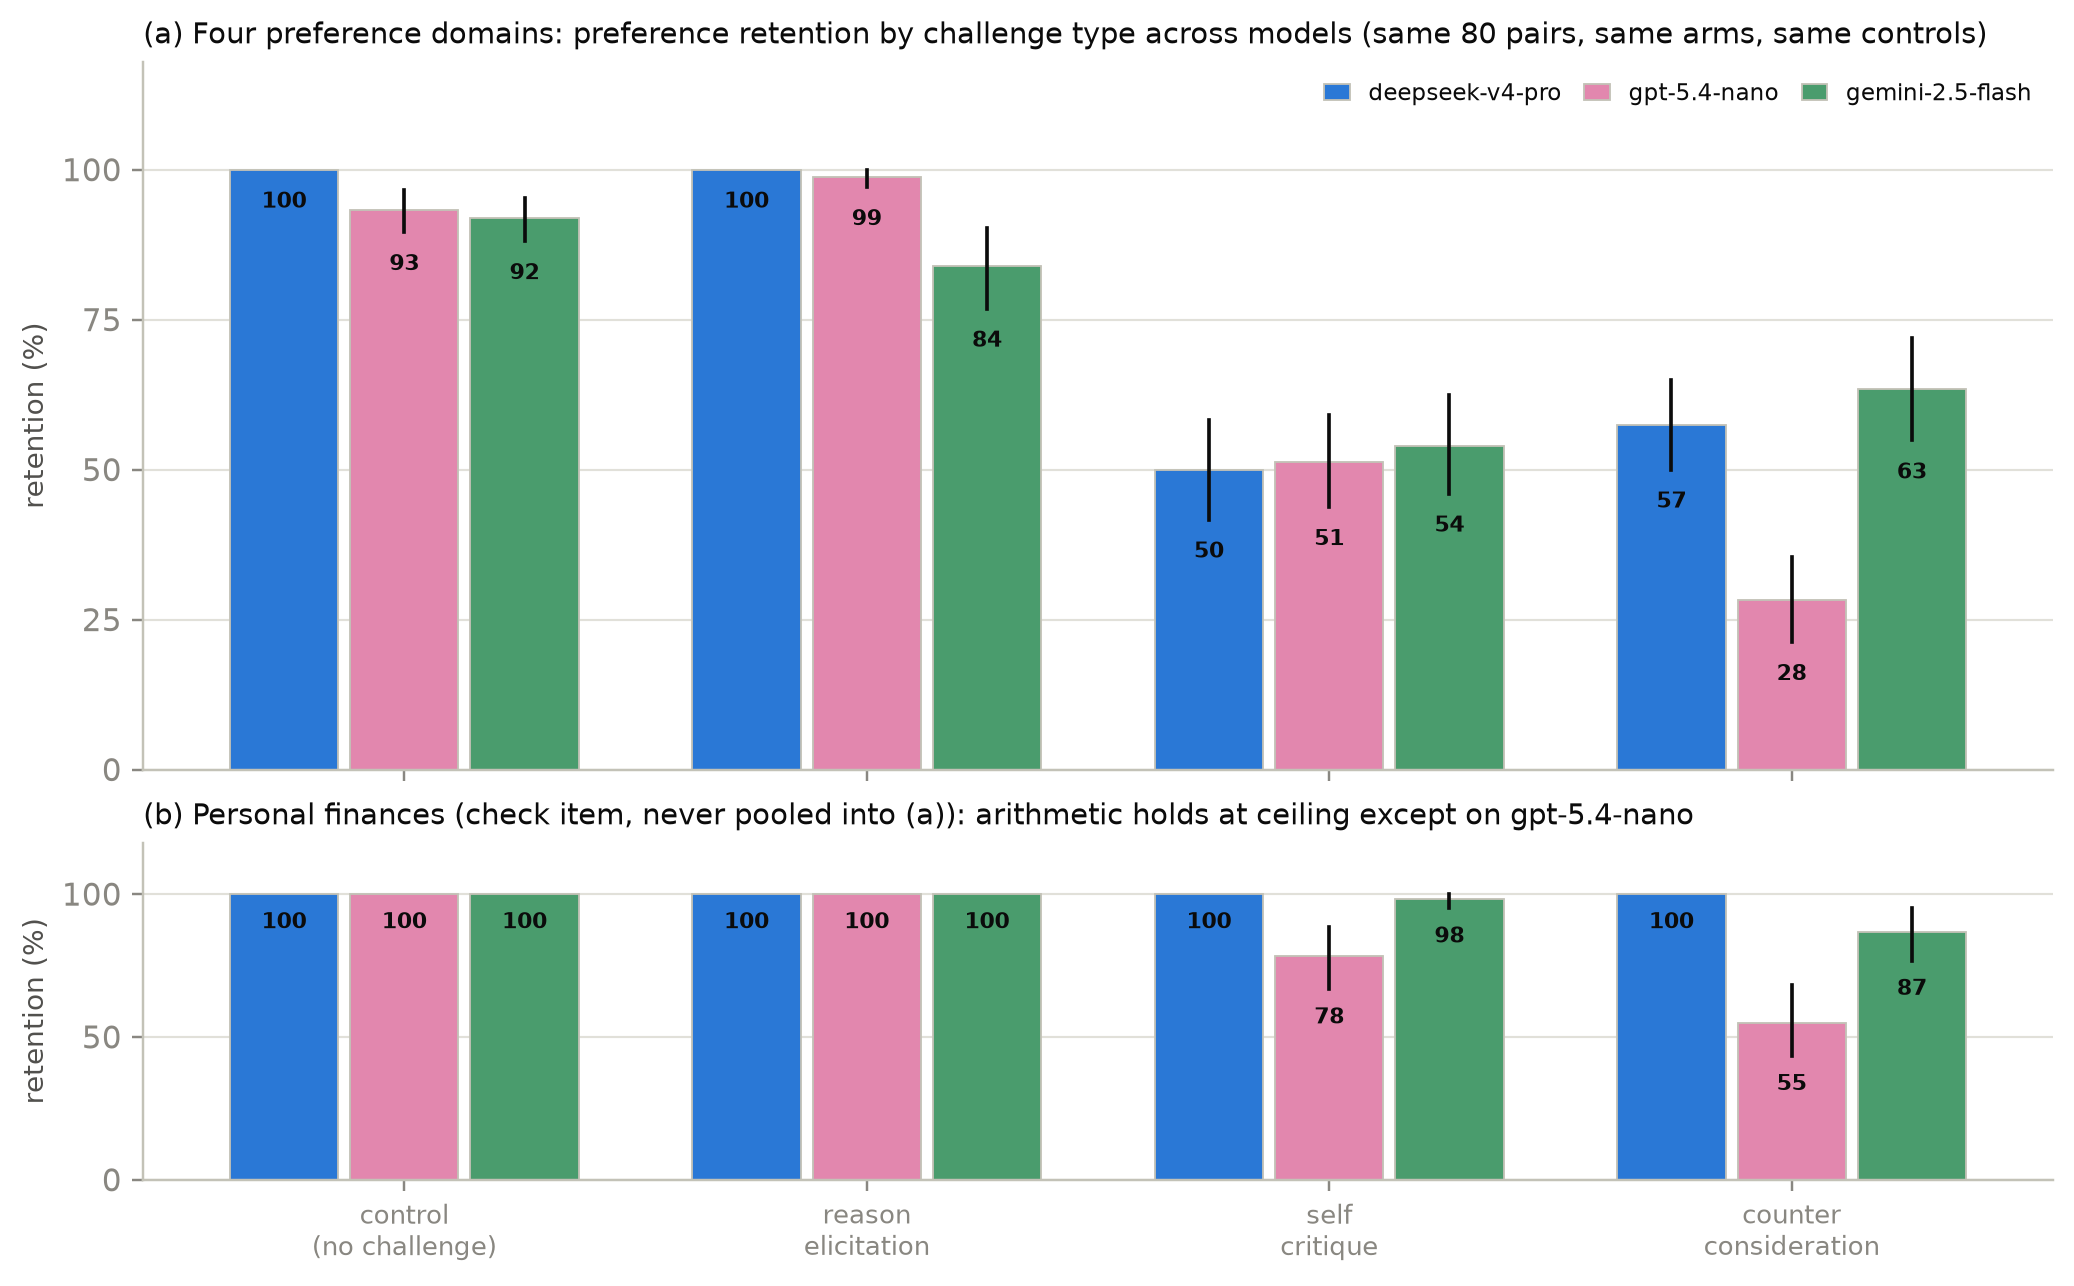
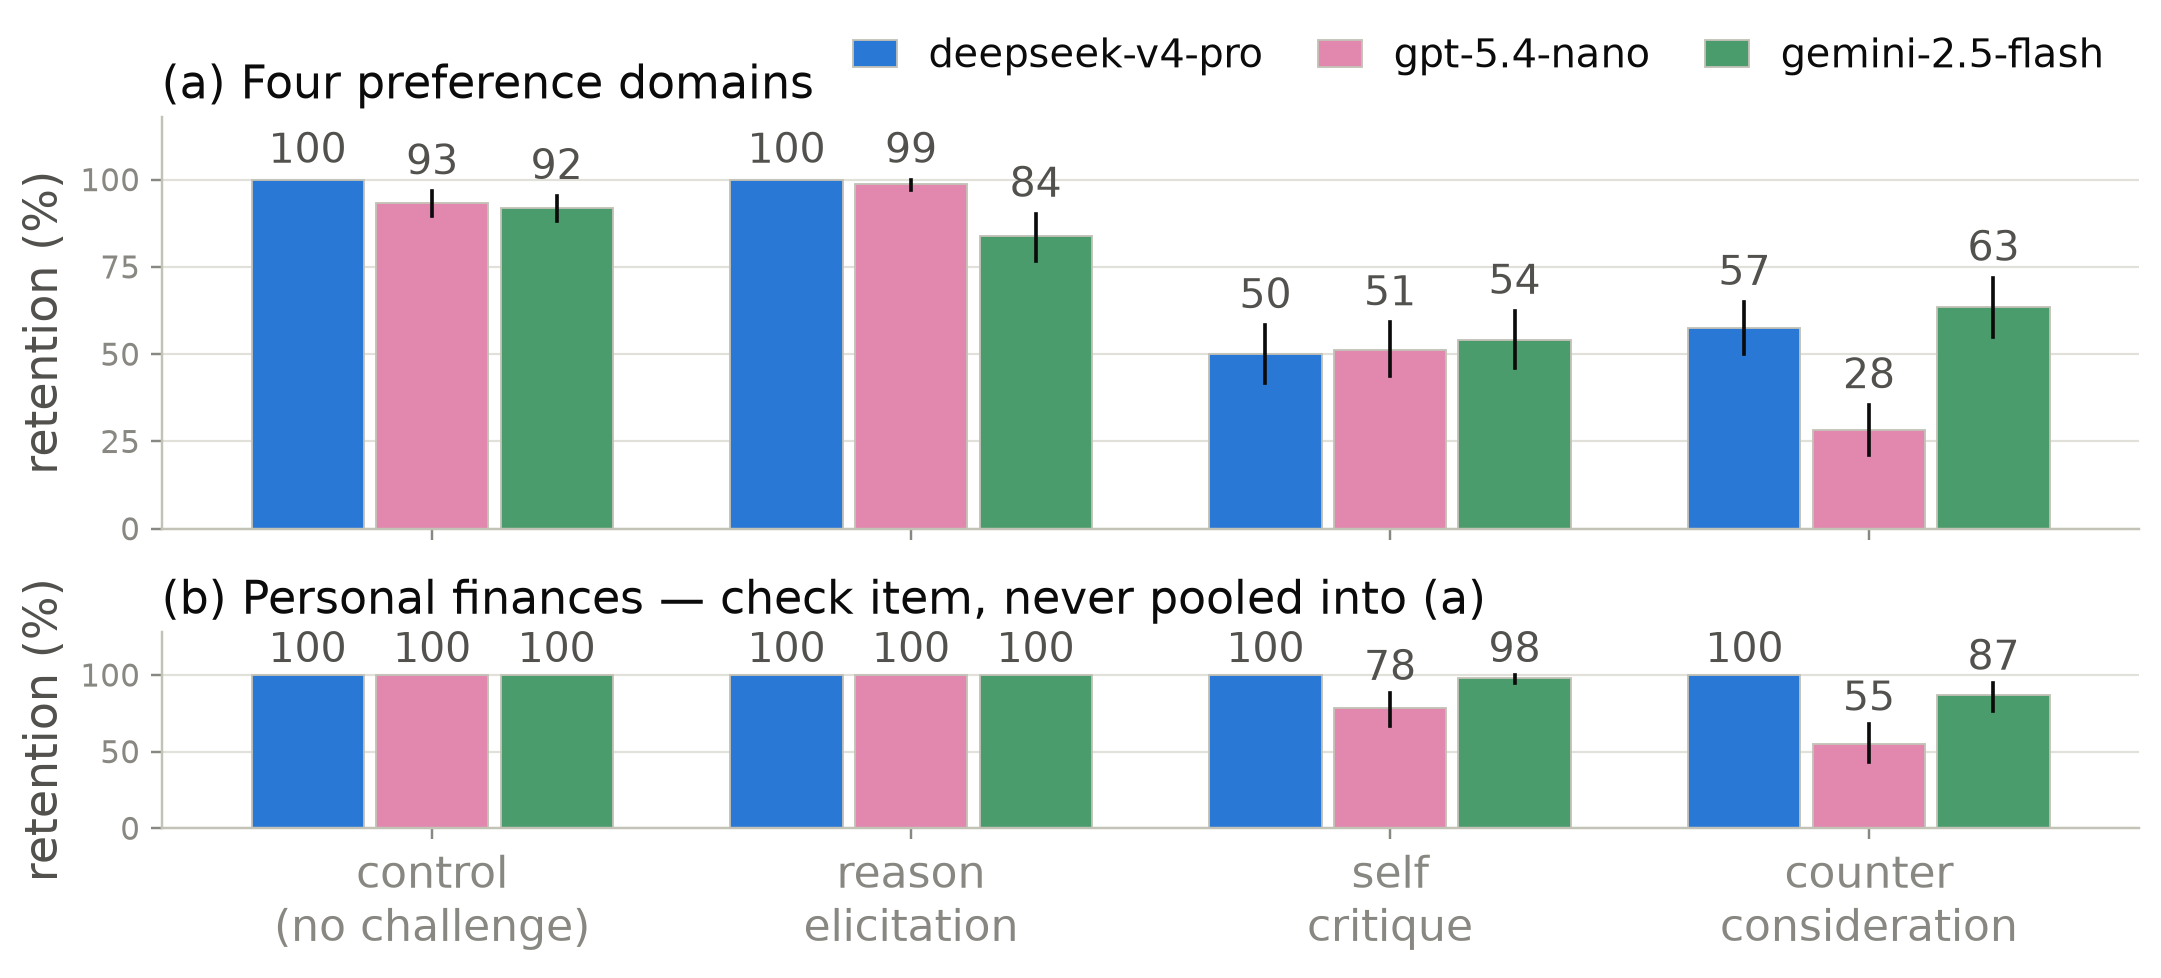
Figures: label every bar, and one font scale sized for the printed page
build_domains was the only figure in the paper that did not print its point
estimates; every other one already did. It does now, so the convention is
uniform.

Placement and face are chosen once, in a shared _value_label() helper, so the
labels cannot drift apart between panels: horizontal (never rotated — upright
digits are legible but read as clutter), regular weight in secondary ink
(twenty bold black numbers on the domain panel are louder than the bars they
annotate), and at the outer end of the bar, above a positive bar and below a
negative one. Inside-the-bar placement has to survive both a saturated fill
and a 10%-tall bar and cannot do both. Where labels would collide, the fix is
FS_VALUE_DENSE, not a rotation.

The 34 hardcoded font sizes are replaced by one named scale (FS_TITLE, FS_AXIS,
FS_TICK, FS_VALUE, FS_LEGEND, FS_NOTE). They are sized so text survives LaTeX
downscaling an ~11in canvas into the text column: undersized figure text is
the one defect the submission template names.

Knock-on fixes this exposed: the cross-model legends were sitting on top of the
new value labels, so panel titles are shortened (the captions already carry the
detail) and the legends moved above the axes; the two stacked confidence panels
were printing overlapping y labels, now one shared supylabel.

No estimate moved. persist_ext_stats.tex and persist_models_ext_stats.tex
regenerate byte-identically.

diff --git a/analysis/persistence_figures.py b/analysis/persistence_figures.py
@@ -97,6 +97,43 @@ FINANCE_COLOR = "#e9a8c4"    # soft pink: the positive control, distinct from ev
 MODEL_COLOUR = {"deepseek-v4-pro": "#2a78d6", "gpt-5.4-nano": "#e287ae",
                 "gemini-2.5-flash": "#4a9c6d"}
 
+# One font scale for every figure in the paper, so no two panels disagree about how
+# big a tick label is. Sizes are in canvas points and the canvases here are ~11-12in
+# wide, which LaTeX renders into a ~6.3in text column: an on-canvas point lands at
+# roughly 0.55pt on the page, so these are ~1.9x the on-page sizes we want. Keep them
+# in that ratio -- undersized figure text is the one defect the submission template
+# calls out by name.
+FS_TITLE = 15.0     # panel title
+FS_AXIS = 15.0      # axis label
+FS_TICK = 14.5      # tick labels
+FS_VALUE = 13.5     # per-bar point estimate (every bar in every figure carries one)
+FS_VALUE_DENSE = 11.5   # same, in the 20-bar domain panel where they sit closer
+FS_LEGEND = 13.0
+FS_NOTE = 12.0      # secondary annotation (CI text, n, callouts)
+
+
+def _value_label(ax, x, point, lo, hi, fmt, *, size=FS_VALUE, pad=2.0):
+    """Write one bar's point estimate at the OUTER end of the bar.
+
+    One helper for every panel, so the labels cannot drift apart in weight or
+    colour between figures. Three choices worth stating, because the obvious
+    alternatives all read worse at print size:
+
+    outer end, never inside the bar -- above a positive bar, below a negative one.
+      Inside-the-bar placement has to survive both a saturated fill and a 10%-tall
+      bar, and cannot do both.
+    regular weight in secondary ink, not bold black. A domain panel carries twenty
+      of these; bold turns them into the loudest thing on the plate, louder than
+      the bars they annotate.
+    horizontal, never rotated. Upright digits are legible but read as clutter.
+      Where they would collide, the fix is a smaller size (FS_VALUE_DENSE), not a
+      rotation.
+    """
+    up = point >= 0
+    y = (max(hi, point) + pad) if up else (min(lo, point) - pad)
+    ax.text(x, y, fmt.format(point), ha="center", va="bottom" if up else "top",
+            fontsize=size, color=INK_2, zorder=4)
+
 
 def _targets():
     from analysis.persistence_models_ext_stats import TARGETS, load_merged
@@ -122,8 +159,7 @@ def _model_arm_panel(ax, targets, domains, value, *, pct, label_fmt, label_gap,
                linewidth=0.6, zorder=2, label=name if legend else None)
         for x, p_, lo, hi in zip(xs, pts, los, his):
             ax.plot([x, x], [lo, hi], color=INK, lw=1.2, zorder=3)
-            ax.text(x, min(lo, p_) - label_gap, label_fmt.format(p_), ha="center",
-                    va="top", fontsize=7.3, color=INK, fontweight="bold", zorder=4)
+            _value_label(ax, x, p_, lo, hi, label_fmt, pad=label_gap)
     ax.set_xticks(range(len(ARMS)))
     ax.set_axisbelow(True)
     ax.yaxis.grid(True, color=GRID, linewidth=0.7)
@@ -140,28 +176,30 @@ def build_models_ext() -> None:
     targets = [(n, [r for r in rows if r.get("retained") is not None])
                for n, rows in _targets()]
     fig, (ax, axf) = plt.subplots(
-        2, 1, figsize=(11.2, 6.6), sharex=True,
-        gridspec_kw={"height_ratios": [2.1, 1.0], "hspace": 0.14})
+        2, 1, figsize=(11.6, 4.2), sharex=True,
+        gridspec_kw={"height_ratios": [2.1, 1.0], "hspace": 0.34})
     ret = lambda r: r["retained"]
     _model_arm_panel(ax, targets, EXTENSION_DOMAINS, ret, pct=True,
-                     label_fmt="{:.0f}", label_gap=3.5, legend=True)
+                     label_fmt="{:.0f}", label_gap=2.0, legend=True)
     ax.set_ylim(0, 118)
     ax.set_yticks([0, 25, 50, 75, 100])
-    ax.set_ylabel("retention (%)", fontsize=9)
-    ax.set_title("(a) Four preference domains: preference retention by challenge "
-                 "type across models (same 80 pairs, same arms, same controls)",
-                 fontsize=9.5, loc="left", color=INK)
-    ax.legend(fontsize=7.6, frameon=False, loc="upper right", ncol=3,
-              handlelength=1.1, columnspacing=1.0)
+    ax.set_ylabel("retention (%)", fontsize=FS_AXIS)
+    # Panel titles name the panel and nothing more: the caption in the paper carries
+    # the pairs, arms and controls, and a title long enough to repeat them leaves the
+    # legend nowhere to sit but on top of the value labels.
+    ax.set_title("(a) Four preference domains", fontsize=FS_TITLE, loc="left",
+                 color=INK)
+    ax.legend(fontsize=FS_LEGEND, frameon=False, loc="lower right",
+              bbox_to_anchor=(1.0, 1.01), ncol=3, handlelength=1.1,
+              columnspacing=1.4)
     _model_arm_panel(axf, targets, (POSITIVE_CONTROL,), ret, pct=True,
-                     label_fmt="{:.0f}", label_gap=6.0)
-    axf.set_ylim(0, 118)
+                     label_fmt="{:.0f}", label_gap=2.0)
+    axf.set_ylim(0, 128)     # shorter panel, so the label needs more of the range
     axf.set_yticks([0, 50, 100])
-    axf.set_ylabel("retention (%)", fontsize=9)
-    axf.set_title("(b) Personal finances (check item, never pooled into (a)): "
-                  "arithmetic holds at ceiling except on gpt-5.4-nano",
-                  fontsize=9.5, loc="left", color=INK)
-    axf.set_xticklabels([LABEL[a] for a in ARMS], fontsize=8.5)
+    axf.set_ylabel("retention (%)", fontsize=FS_AXIS)
+    axf.set_title("(b) Personal finances — check item, never pooled into (a)",
+                  fontsize=FS_TITLE, loc="left", color=INK)
+    axf.set_xticklabels([LABEL[a] for a in ARMS], fontsize=FS_TICK)
     fig.tight_layout()
     out = FIGS / "persistence_models_ext.png"
     fig.savefig(out, bbox_inches="tight")
@@ -179,24 +217,28 @@ def build_confidence_models() -> None:
     targets = [(n, [r for r in rows if r.get("retained") is True])
                for n, rows in _targets()]
     fig, (ax, axf) = plt.subplots(
-        2, 1, figsize=(11.2, 6.4), sharex=True,
-        gridspec_kw={"height_ratios": [1.9, 1.0], "hspace": 0.16})
+        2, 1, figsize=(11.2, 5.0), sharex=True,
+        gridspec_kw={"height_ratios": [1.9, 1.0], "hspace": 0.42})
     _model_arm_panel(ax, targets, EXTENSION_DOMAINS, dconf, pct=False,
-                     label_fmt="{:+.1f}", label_gap=0.55, legend=True)
+                     label_fmt="{:+.1f}", label_gap=0.4, legend=True)
     ax.axhline(0, color=AXIS, linewidth=0.9, zorder=1)
-    ax.set_ylabel(r"$\Delta$confidence, held episodes", fontsize=9)
-    ax.set_title("(a) Four preference domains: confidence change among retained "
-                 "preferences, by model (per-arm means)",
-                 fontsize=9.5, loc="left", color=INK)
-    ax.legend(fontsize=7.6, frameon=False, loc="lower left", ncol=1,
-              handlelength=1.1)
+    ax.margins(y=0.18)       # room for labels at both ends; bars run both signs
+    ax.set_title("(a) Four preference domains", fontsize=FS_TITLE, loc="left",
+                 color=INK)
+    ax.legend(fontsize=FS_LEGEND, frameon=False, loc="lower right",
+              bbox_to_anchor=(1.0, 1.01), ncol=3, handlelength=1.1,
+              columnspacing=1.4)
     _model_arm_panel(axf, targets, (POSITIVE_CONTROL,), dconf, pct=False,
-                     label_fmt="{:+.1f}", label_gap=0.55)
+                     label_fmt="{:+.1f}", label_gap=0.4)
     axf.axhline(0, color=AXIS, linewidth=0.9, zorder=1)
-    axf.set_ylabel(r"$\Delta$confidence, held", fontsize=9)
-    axf.set_title("(b) Personal finances (check item, never pooled into (a))",
-                  fontsize=9.5, loc="left", color=INK)
-    axf.set_xticklabels([LABEL[a] for a in ARMS], fontsize=8.5)
+    axf.margins(y=0.24)
+    axf.set_title("(b) Personal finances — check item, never pooled into (a)",
+                  fontsize=FS_TITLE, loc="left", color=INK)
+    # One shared y label: two stacked panels this short cannot each carry the full
+    # phrase without the two labels colliding in the middle of the plate.
+    fig.supylabel(r"$\Delta$confidence among held episodes", fontsize=FS_AXIS,
+                  color=INK_2)
+    axf.set_xticklabels([LABEL[a] for a in ARMS], fontsize=FS_TICK)
     fig.tight_layout()
     out = FIGS / "persistence_confidence_models.png"
     fig.savefig(out, bbox_inches="tight")
@@ -228,30 +270,33 @@ def build_domains(rows=None,
         xs = x_base + arm_to_offset[arm]
         ax.bar(xs, ys, width=width * 0.9, color=COLOR[arm], edgecolor=AXIS,
                linewidth=0.6, zorder=2, label=LABEL[arm])
-        for x, lo, hi in zip(xs, los, his):
+        for x, p_, lo, hi in zip(xs, ys, los, his):
             if np.isnan(lo) or np.isnan(hi):
                 continue
             ax.plot([x, x], [lo, hi], color=INK, linewidth=1.2, zorder=3)
             ax.plot([x - 0.05, x + 0.05], [lo, lo], color=INK, linewidth=1.0, zorder=3)
             ax.plot([x - 0.05, x + 0.05], [hi, hi], color=INK, linewidth=1.0, zorder=3)
+            # Twenty bars share this axis, so the labels take the smaller size;
+            # everything else about them matches every other panel.
+            _value_label(ax, x, p_, lo, hi, "{:.0f}", size=FS_VALUE_DENSE, pad=2.5)
 
     ax.set_xticks(x_base)
     DOMAIN_LABEL = {"video_games": "video games", "sports": "sports",
                     "pop_culture": "pop culture", "sci_tech": "science & tech",
                     "finances_control": "personal finances"}
     ax.set_xticklabels([DOMAIN_LABEL[d] for d in REPORTED_DOMAINS], rotation=20,
-                       ha="right", fontsize=8)
-    ax.set_ylim(0, 110)
-    ax.set_ylabel("retention (%)", fontsize=9)
+                       ha="right", fontsize=FS_TICK)
+    ax.set_ylim(0, 118)          # headroom for the per-bar value labels
+    ax.set_ylabel("retention (%)", fontsize=FS_AXIS)
     ax.set_title("Retention by domain and arm"
                  + (f" — {model_label}" if model_label else " — deepseek-v4-pro"),
-                 fontsize=9.5, loc="left", color=INK)
+                 fontsize=FS_TITLE, loc="left", color=INK)
     ax.axhline(0, color=AXIS, linewidth=0.9, zorder=1)
     ax.set_axisbelow(True)
     ax.yaxis.grid(True, color=GRID, linewidth=0.7)
     for s in ("top", "right"):
         ax.spines[s].set_visible(False)
-    ax.legend(frameon=False, fontsize=7.5, ncol=4, columnspacing=1.0,
+    ax.legend(frameon=False, fontsize=FS_LEGEND, ncol=4, columnspacing=1.0,
               handlelength=1.1, loc="lower right", bbox_to_anchor=(1.0, 1.02))
     fig.tight_layout()
     out = FIGS / out_name
@@ -301,12 +346,12 @@ def build_confidence() -> None:
         if big_labels:
             # labels on the LEFT of the cluster; the right side belongs to the
             # money-ladder cluster drawn beside it
-            ax.text(x - w - 0.08, p, f"{p:+.1f}", fontsize=9, color=INK,
+            ax.text(x - w - 0.08, p, f"{p:+.1f}", fontsize=FS_VALUE, color=INK,
                     fontweight="bold", ha="right", va="center")
             ax.text(x - w - 0.08, p, f"\n[{lo:+.1f}, {hi:+.1f}]\nn={nobs}",
-                    fontsize=6.8, color=INK_2, ha="right", va="top", linespacing=1.25)
+                    fontsize=FS_NOTE, color=INK_2, ha="right", va="top", linespacing=1.25)
         else:
-            ax.text(x, min(0, lo) - 2.0, f"{p:+.1f}", fontsize=7.2, color=INK_2,
+            ax.text(x, min(0, lo) - 2.0, f"{p:+.1f}", fontsize=FS_VALUE, color=INK_2,
                     ha="center", va="top")
 
     # All five domains in one panel, per arm: the four preference domains as the
@@ -328,15 +373,15 @@ def build_confidence() -> None:
         f"{ex['choice_post'].upper()}), confidence "
         f"{ex['conf_pre']} → {ex['conf_post']}",
         xy=(ex_x, dconf(ex)), xytext=((len(ARMS) - 1) * STEP + 0.6, dconf(ex) - 14),
-        fontsize=8, color=INK, ha="right",
+        fontsize=FS_NOTE, color=INK, ha="right",
         arrowprops=dict(arrowstyle="->", color=INK_2, linewidth=0.9))
 
     ax.set_xticks([i * STEP for i in range(len(ARMS))])
-    ax.set_xticklabels([LABEL[a] for a in ARMS], fontsize=8.5)
-    ax.set_ylabel(r"$\Delta$confidence among HELD episodes (0--100 scale)", fontsize=9)
+    ax.set_xticklabels([LABEL[a] for a in ARMS], fontsize=FS_TICK)
+    ax.set_ylabel(r"$\Delta$confidence among HELD episodes (0--100 scale)", fontsize=FS_AXIS)
     ax.set_title("All five approved domains: the choice survives; the stated confidence "
                  "does not always survive with it — except on personal finances",
-                 fontsize=9.5, loc="left", color=INK)
+                 fontsize=FS_TITLE, loc="left", color=INK)
     from matplotlib.lines import Line2D
     ax.legend(handles=[
         Line2D([], [], marker="o", ls="none", color=COLOR["control"], alpha=0.7,
@@ -347,7 +392,7 @@ def build_confidence() -> None:
                label="personal-finances episodes (control item, never pooled)"),
         Line2D([], [], color=INK, lw=1.8,
                label="per-cluster mean, with bootstrap 95% CI over pairs"),
-    ], fontsize=6.8, frameon=False, loc="lower left", handlelength=1.2,
+    ], fontsize=FS_NOTE, frameon=False, loc="lower left", handlelength=1.2,
        borderaxespad=0.2)
 
     ax.axhline(0, color=AXIS, linewidth=0.9, zorder=1)
